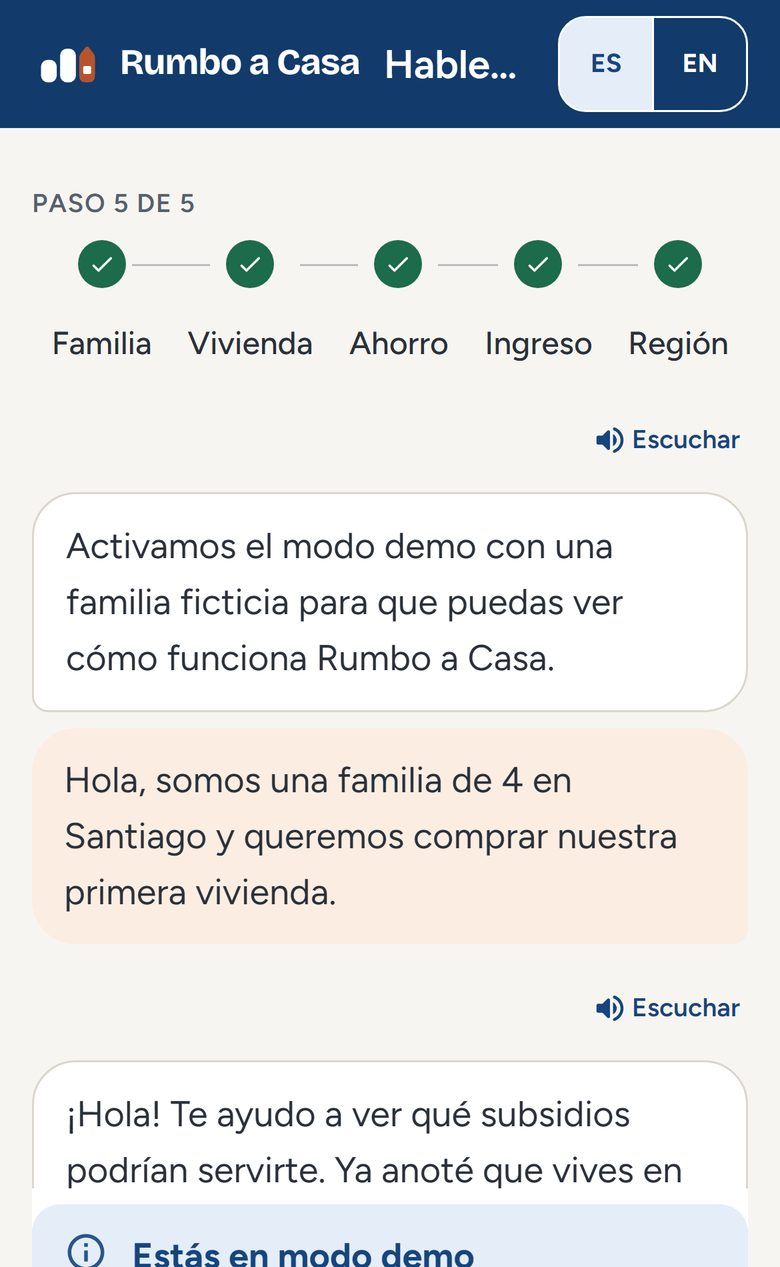
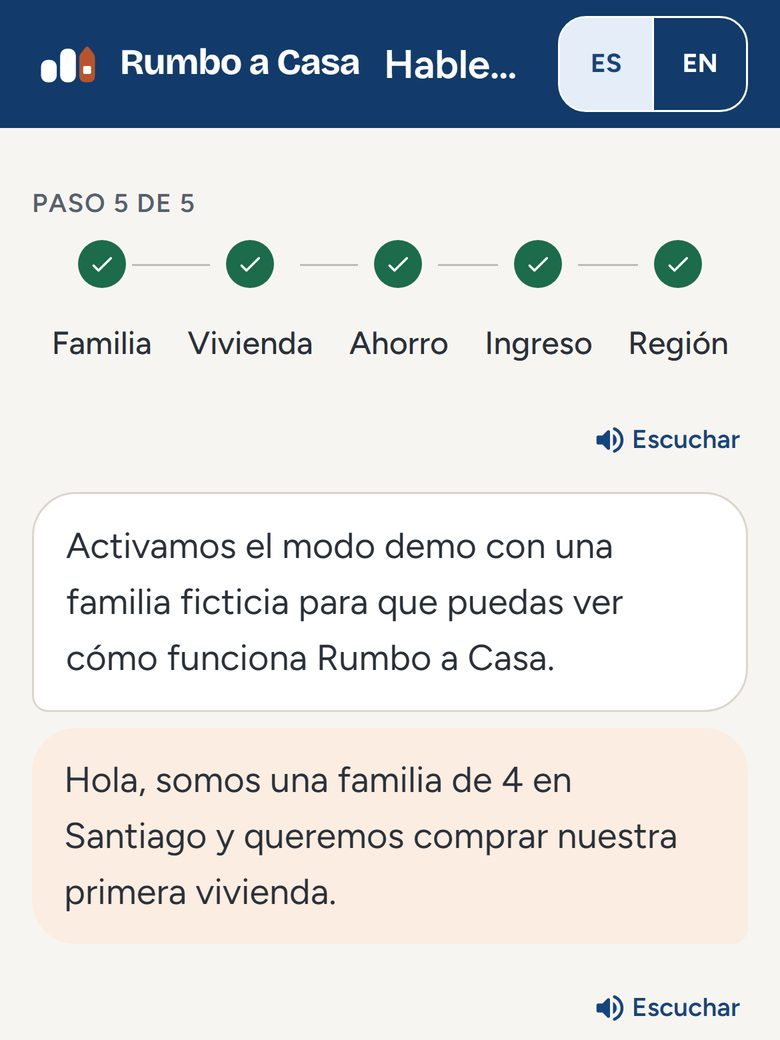
feat: cards de proyectos del tamaño de sus fotos y a color
Quita el marco y la escala de grises. Las cards de cada proyecto comparten alto y
cada una toma el ancho según la proporción de su foto, que se ve entera. En móvil,
carrusel de alto común con la captura móvil de cada paso.

diff --git a/src/styles/layout.css b/src/styles/layout.css
@@ -31,7 +31,7 @@
 .ap-projects{gap:var(--space-24);
   --proj-gap:20px;--proj-columns:454fr 613fr 760fr;
   --proj-title-size:28px;--proj-title-leading:1.15;--proj-text-size:22px;
-  --proj-card-gap:10px;--proj-media-height:clamp(320px, 31vw, 560px);--proj-media-pad:var(--space-6);
+  --proj-card-gap:10px;--proj-media-fill:rgba(18,18,18,.06);--proj-media-height-m:min(62svh, 440px);
   --proj-media-label:.6875rem;--proj-media-tracking:.08em;--proj-cap-size:15px;
   --proj-bleed:var(--space-8)}
 .ap-proj{display:flex;flex-direction:column;gap:var(--proj-gap)}
@@ -41,25 +41,26 @@
 .ap-proj__title.subheading,.ap-proj__role.subheading{margin:0;font-family:var(--font-oswald);font-weight:500;font-size:var(--proj-title-size);line-height:var(--proj-title-leading);color:var(--ink-primary)}
 .ap-proj__role.subheading{color:var(--ink-highlight-muted)}
 .ap-proj__desc.lead{grid-column:2 / -1;margin:0;max-width:72ch;font-family:var(--font-oswald);font-size:var(--proj-text-size);color:var(--ink-primary)}
-.ap-proj__card{margin:0;display:flex;flex-direction:column;gap:var(--proj-card-gap);min-width:0}
-/* Marco de lienzo del sistema: plano, surface-sunken, border-hairline y radius-lg. La captura va entera dentro, centrada
-   con el mismo margen en todas las cards y en escala de grises, como pide ProjectCard: nunca se recorta. */
-.ap-proj__media{display:flex;align-items:center;justify-content:center;box-sizing:border-box;width:100%;height:var(--proj-media-height);padding:var(--proj-media-pad);border:var(--stroke-hairline) solid var(--border-hairline);border-radius:var(--radius-lg);background:var(--surface-sunken);overflow:hidden}
-.ap-proj__media > picture{display:contents}
-.ap-proj__img{display:block;max-width:100%;max-height:100%;width:auto;height:auto;border:var(--stroke-hairline) solid var(--border-hairline);border-radius:var(--radius-md);filter:grayscale(1)}
+/* La card toma el tamaño de su foto: todas las cards de un proyecto comparten alto y cada una crece según la
+   proporción de su imagen (--card-ratio = ancho / alto, desde MediaCard). La foto se ve entera, sin recortes ni marco.
+   Sin imagen, la card es cuadrada. */
+.ap-proj__cards{display:flex;align-items:flex-start}
+.ap-proj__card{margin:0;display:flex;flex-direction:column;gap:var(--proj-card-gap);min-width:0;flex:var(--card-ratio, 1) 1 0}
+.ap-proj__media{display:flex;align-items:center;justify-content:center;box-sizing:border-box;width:100%;height:auto;aspect-ratio:var(--card-ratio, 1);border:var(--stroke-hairline) solid var(--border-hairline);border-radius:var(--radius-md);background:var(--proj-media-fill);object-fit:cover}
 .ap-proj__media > .label{font-size:var(--proj-media-label);font-weight:400;letter-spacing:var(--proj-media-tracking);color:var(--ink-secondary)}
 .ap-proj__cap{display:flex;justify-content:space-between;gap:var(--space-3);font-family:var(--font-oswald);font-size:var(--proj-cap-size);font-weight:400;color:var(--ink-secondary)}
 /* Bajo 720px: cabecera en una columna y cards en carrusel horizontal con snap, a sangre hasta el borde de la sección.
-   Cada card usa la captura móvil de su paso (<source> en MediaCard). */
+   Cada card usa la captura móvil de su paso si existe (<source> en MediaCard, proporción --card-ratio-m): mismo alto
+   para todas y ancho según la foto, con tope para que asome la siguiente. */
 @media (max-width: 719px){
-  .ap-projects{--proj-title-size:24px;--proj-text-size:20px;--proj-media-pad:var(--space-4)}
+  .ap-projects{--proj-title-size:24px;--proj-text-size:20px}
   .ap-proj{gap:var(--space-4)}
   .ap-proj__head{grid-template-columns:1fr}
   .ap-proj__who,.ap-proj__desc.lead{grid-column:1}
-  .ap-proj__cards{display:flex;overflow-x:auto;scroll-snap-type:x mandatory;margin:0 calc(var(--proj-bleed) * -1);padding:0 var(--proj-bleed);scroll-padding:0 var(--proj-bleed);scrollbar-width:none;-webkit-overflow-scrolling:touch}
+  .ap-proj__cards{overflow-x:auto;scroll-snap-type:x mandatory;margin:0 calc(var(--proj-bleed) * -1);padding:0 var(--proj-bleed);scroll-padding:0 var(--proj-bleed);scrollbar-width:none;-webkit-overflow-scrolling:touch}
   .ap-proj__cards::-webkit-scrollbar{display:none}
-  .ap-proj__card{flex:0 0 76%;scroll-snap-align:start}
-  .ap-proj__media{height:auto;aspect-ratio:4 / 5}
+  .ap-proj__card{flex:0 0 auto;width:min(calc(var(--proj-media-height-m) * var(--card-ratio-m, var(--card-ratio, 1))), 86%);scroll-snap-align:start}
+  .ap-proj__media{aspect-ratio:var(--card-ratio-m, var(--card-ratio, 1))}
 }
 
 /* Sin scroll horizontal desde 320px: solo una palabra más ancha que la columna se corta, en vez de desbordar. */

diff --git a/src/components/molecules/MediaCard/MediaCard.jsx b/src/components/molecules/MediaCard/MediaCard.jsx
@@ -1,16 +1,17 @@
-// Card de proyecto: marco con la captura entera (o marco de relleno con nombre accesible) y pie con número y título.
-// `width`/`height` son las medidas reales de la captura y reservan su espacio antes de cargar.
+// Card de proyecto: la foto (o marco de relleno con nombre accesible) y pie con número y título.
+// La card toma el tamaño de su foto: `width`/`height` son sus medidas reales y fijan la proporción (--card-ratio).
 // `mobile` ({ image, width, height }) es la captura del mismo paso en teléfono: la usa el carrusel bajo 720px.
 export function MediaCard({ index, title, image, alt, width, height, mobile }) {
+  const style = {};
+  if (width && height) style['--card-ratio'] = width / height;
+  if (mobile?.width && mobile?.height) style['--card-ratio-m'] = mobile.width / mobile.height;
   return (
-    <figure className="ap-proj__card">
+    <figure className="ap-proj__card" style={style}>
       {image ? (
-        <div className="ap-proj__media">
-          <picture>
-            {mobile && <source media="(max-width: 719px)" srcSet={mobile.image} width={mobile.width} height={mobile.height} />}
-            <img className="ap-proj__img" src={image} alt={alt} width={width} height={height} loading="lazy" decoding="async" />
-          </picture>
-        </div>
+        <picture>
+          {mobile && <source media="(max-width: 719px)" srcSet={mobile.image} width={mobile.width} height={mobile.height} />}
+          <img className="ap-proj__media" src={image} alt={alt} width={width} height={height} loading="lazy" decoding="async" />
+        </picture>
       ) : (
         <div className="ap-proj__media" role="img" aria-label={alt}><span className="label">Imagen</span></div>
       )}

diff --git a/src/content/home.js b/src/content/home.js
@@ -92,7 +92,7 @@ export const projects = {
       // `mobile` es la captura del mismo paso en teléfono, para el carrusel bajo 720px.
       // Capturas de la app en vivo en modo demo (familia ficticia).
       cards: [
-        { title: 'Conversación guiada', image: '/proyectos/rumbo-conversacion.jpg', width: 780, height: 1267,
+        { title: 'Conversación guiada', image: '/proyectos/rumbo-conversacion.jpg', width: 780, height: 1040,
           alt: 'Rumbo a Casa en un teléfono: el avance de cinco pasos completo y la conversación en la que la familia cuenta que quiere comprar su primera vivienda' },
         { title: 'Elegibilidad con su fuente', image: '/proyectos/rumbo-resultado.jpg', width: 1400, height: 1294,
           mobile: { image: '/proyectos/rumbo-resultado-movil.jpg', width: 780, height: 1267 },

diff --git a/design-system/INTEGRACION.md b/design-system/INTEGRACION.md
@@ -62,7 +62,7 @@ La sección `#sobre-mi` se aprobó en el mismo lienzo (30 oct 2026) y se clonó 
 | Escala tipográfica fija | Nombre y rol en Oswald 500, 28px (24px bajo 720px); descripción en Oswald 22px (20px); pie de card en Oswald 15px | `--proj-title-size`, `--proj-text-size`, `--proj-cap-size` |
 | Monocromo con tintas del sistema | Rol en el gris destacado `#a3a3a8`, compartido con Sobre mí | `--ink-highlight-muted` (en `.ap-page`) |
 | Espaciado en escala de 4/8 | Rejilla 454fr / 613fr / 760fr; 20px entre cabecera y cards; 10px entre imagen y pie | `--proj-columns`, `--proj-gap`, `--proj-card-gap` |
-| Superficies del sistema | Marco de lienzo en `surface-sunken` con `border-hairline` y `radius-lg`, alto `clamp(320px, 31vw, 560px)` (4:5 bajo 720px). La captura va entera dentro (sin recorte), con margen `space-6` (`space-4` bajo 720px), borde `border-hairline`, `radius-md` y escala de grises como en ProjectCard. Bajo 720px se usa la captura móvil del paso si existe | `--proj-media-height`, `--proj-media-pad` |
+| Superficies del sistema | La card toma el tamaño de su foto: las cards de un proyecto comparten alto y cada una crece según la proporción de su imagen, que se ve entera y a color, con `border-hairline` y `radius-md`. Sin imagen, marco de relleno cuadrado `rgba(18,18,18,.06)`. Bajo 720px, carrusel de alto `min(62svh, 440px)` con la captura móvil del paso si existe | `--proj-media-fill`, `--proj-media-height-m`, `--card-ratio` |
 | Breakpoint de 600px | Bajo **720px** las cards pasan a carrusel horizontal con snap (76% de ancho, a sangre hasta el borde) | `layout.css` |
 
 Oswald se descarga en 400 y 500 (como en el lienzo actualizado), así que nombre y rol se ven en 500.
